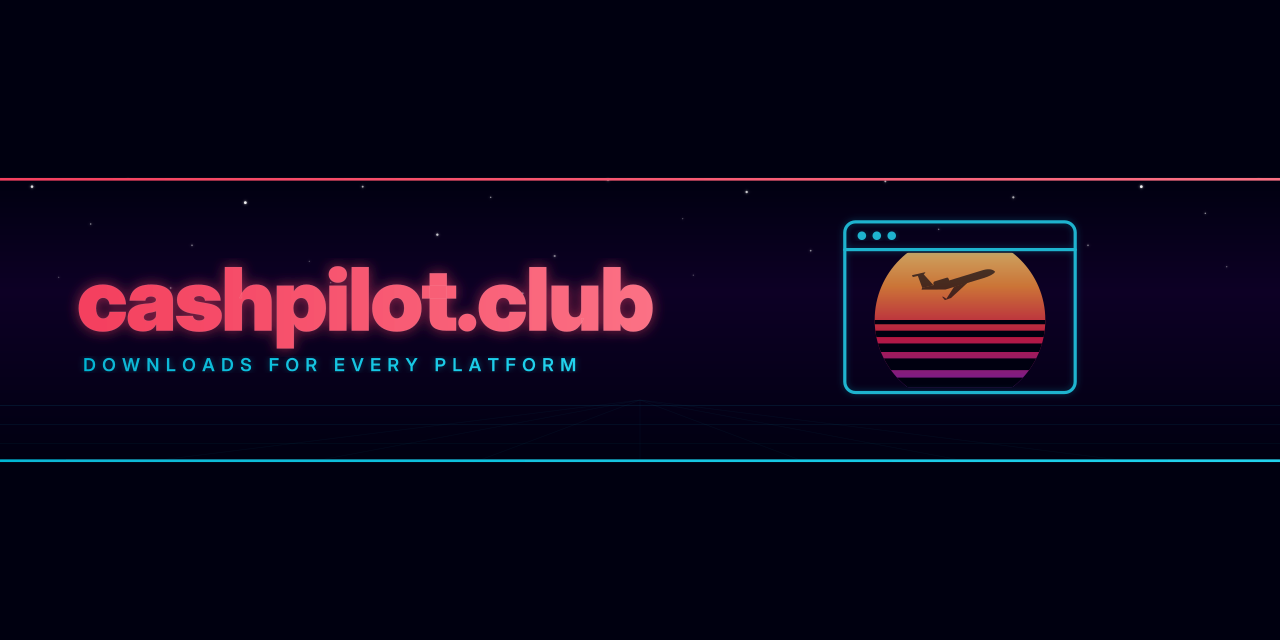
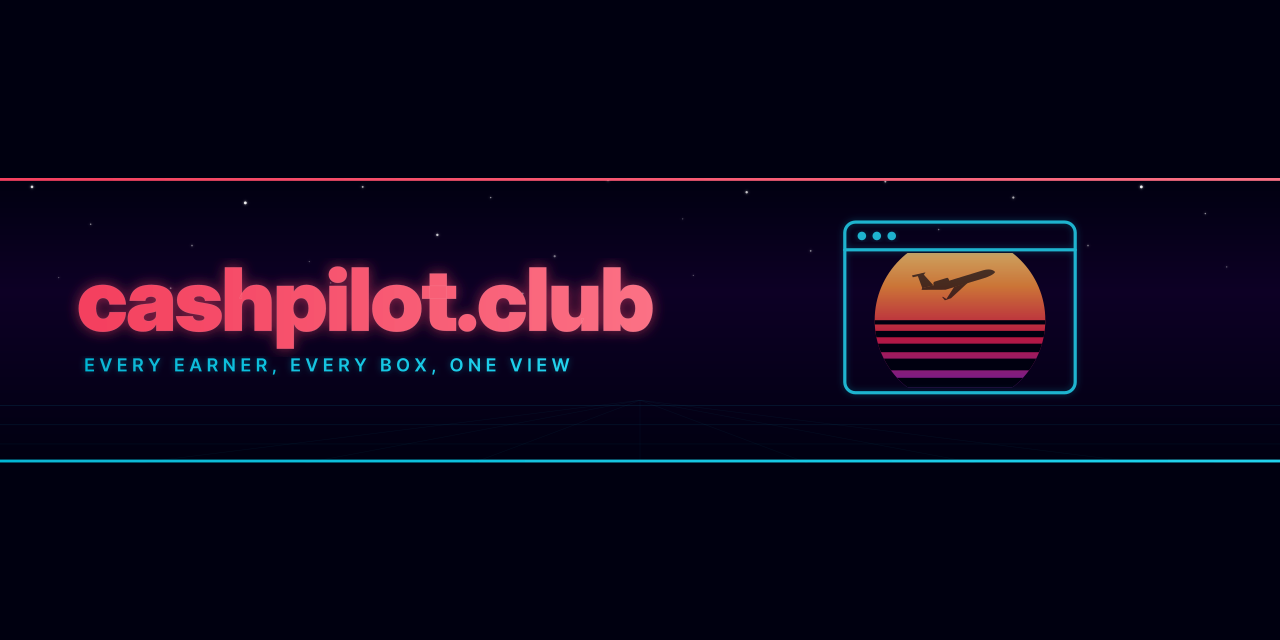
feat(home): say what CashPilot covers now in the title, the meta description and the hero

Changed region(s): [[0.0625, 0.5625, 0.4688, 0.5938], [0.6875, 0.5, 0.8125, 0.5625], [0.6562, 0.3438, 0.8125, 0.4062]]

diff --git a/README.md b/README.md
@@ -7,10 +7,12 @@
 <p align="center">
   <a href="https://github.com/GeiserX/CashPilot-web/actions/workflows/pages.yml"><img src="https://img.shields.io/github/actions/workflow/status/GeiserX/CashPilot-web/pages.yml?style=flat-square&label=deploy" alt="Deploy"></a>
   <a href="https://github.com/GeiserX/CashPilot-web/actions/workflows/ci.yml"><img src="https://img.shields.io/github/actions/workflow/status/GeiserX/CashPilot-web/ci.yml?style=flat-square&label=CI" alt="CI"></a>
-  <a href="LICENSE"><img src="https://img.shields.io/badge/license-GPL--3.0--or--later-blue?style=flat-square" alt="License: GPL-3.0-or-later"></a>
+  <a href="LICENSE"><img src="https://img.shields.io/github/license/GeiserX/CashPilot-web?style=flat-square" alt="License"></a>
 </p>
 
-The website of [CashPilot](https://github.com/GeiserX/CashPilot): a landing page, downloads for every system, the referral disclosure, privacy and disclaimer pages. Static, dark only, no cookies, no analytics, and no request to any other host at runtime.
+<p align="center"><strong>Every earner, every box, one view.</strong></p>
+
+The source of https://cashpilot.club, the website of [CashPilot](https://github.com/GeiserX/CashPilot). CashPilot is a self-hosted dashboard for bandwidth sharing, DePIN, mining, GPU compute and storage earners: it keeps them off your home network by default and tracks them across servers, desktops and phones. The site has a landing page, downloads for every system, the referral disclosure, and the privacy and disclaimer pages. It is static and dark only, with no cookies, no analytics and no request to any other host at runtime.
 
 ## Build
 
